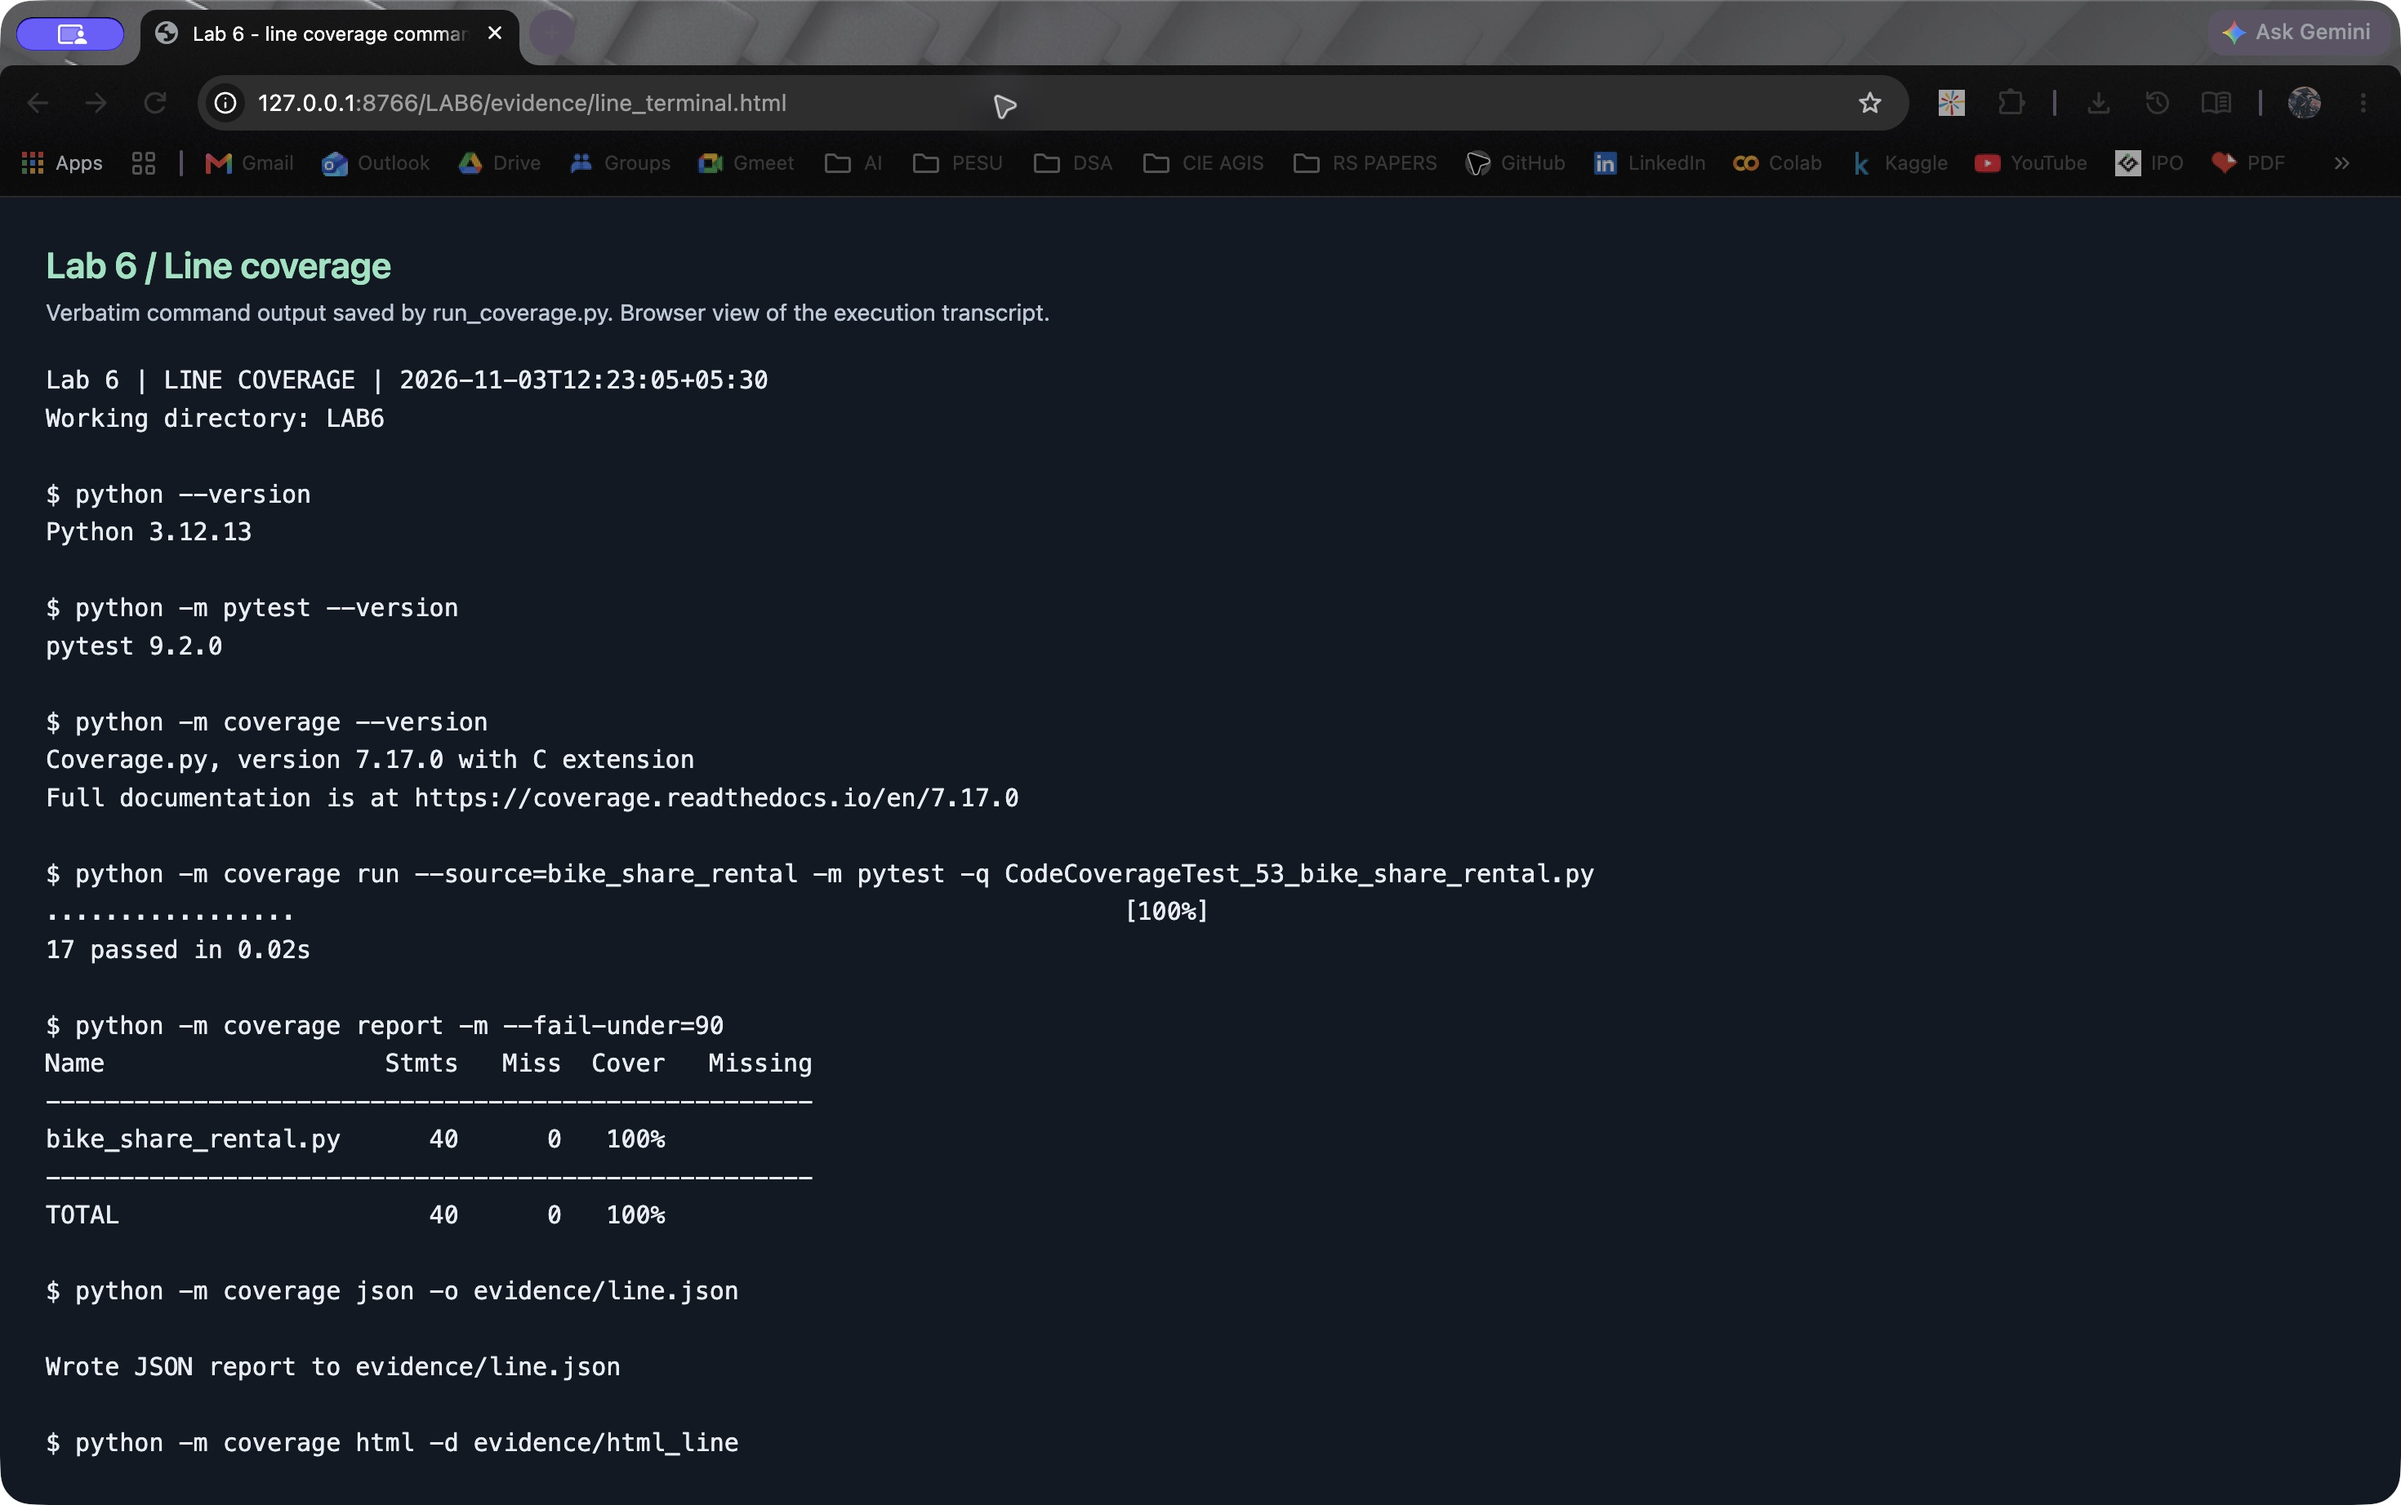
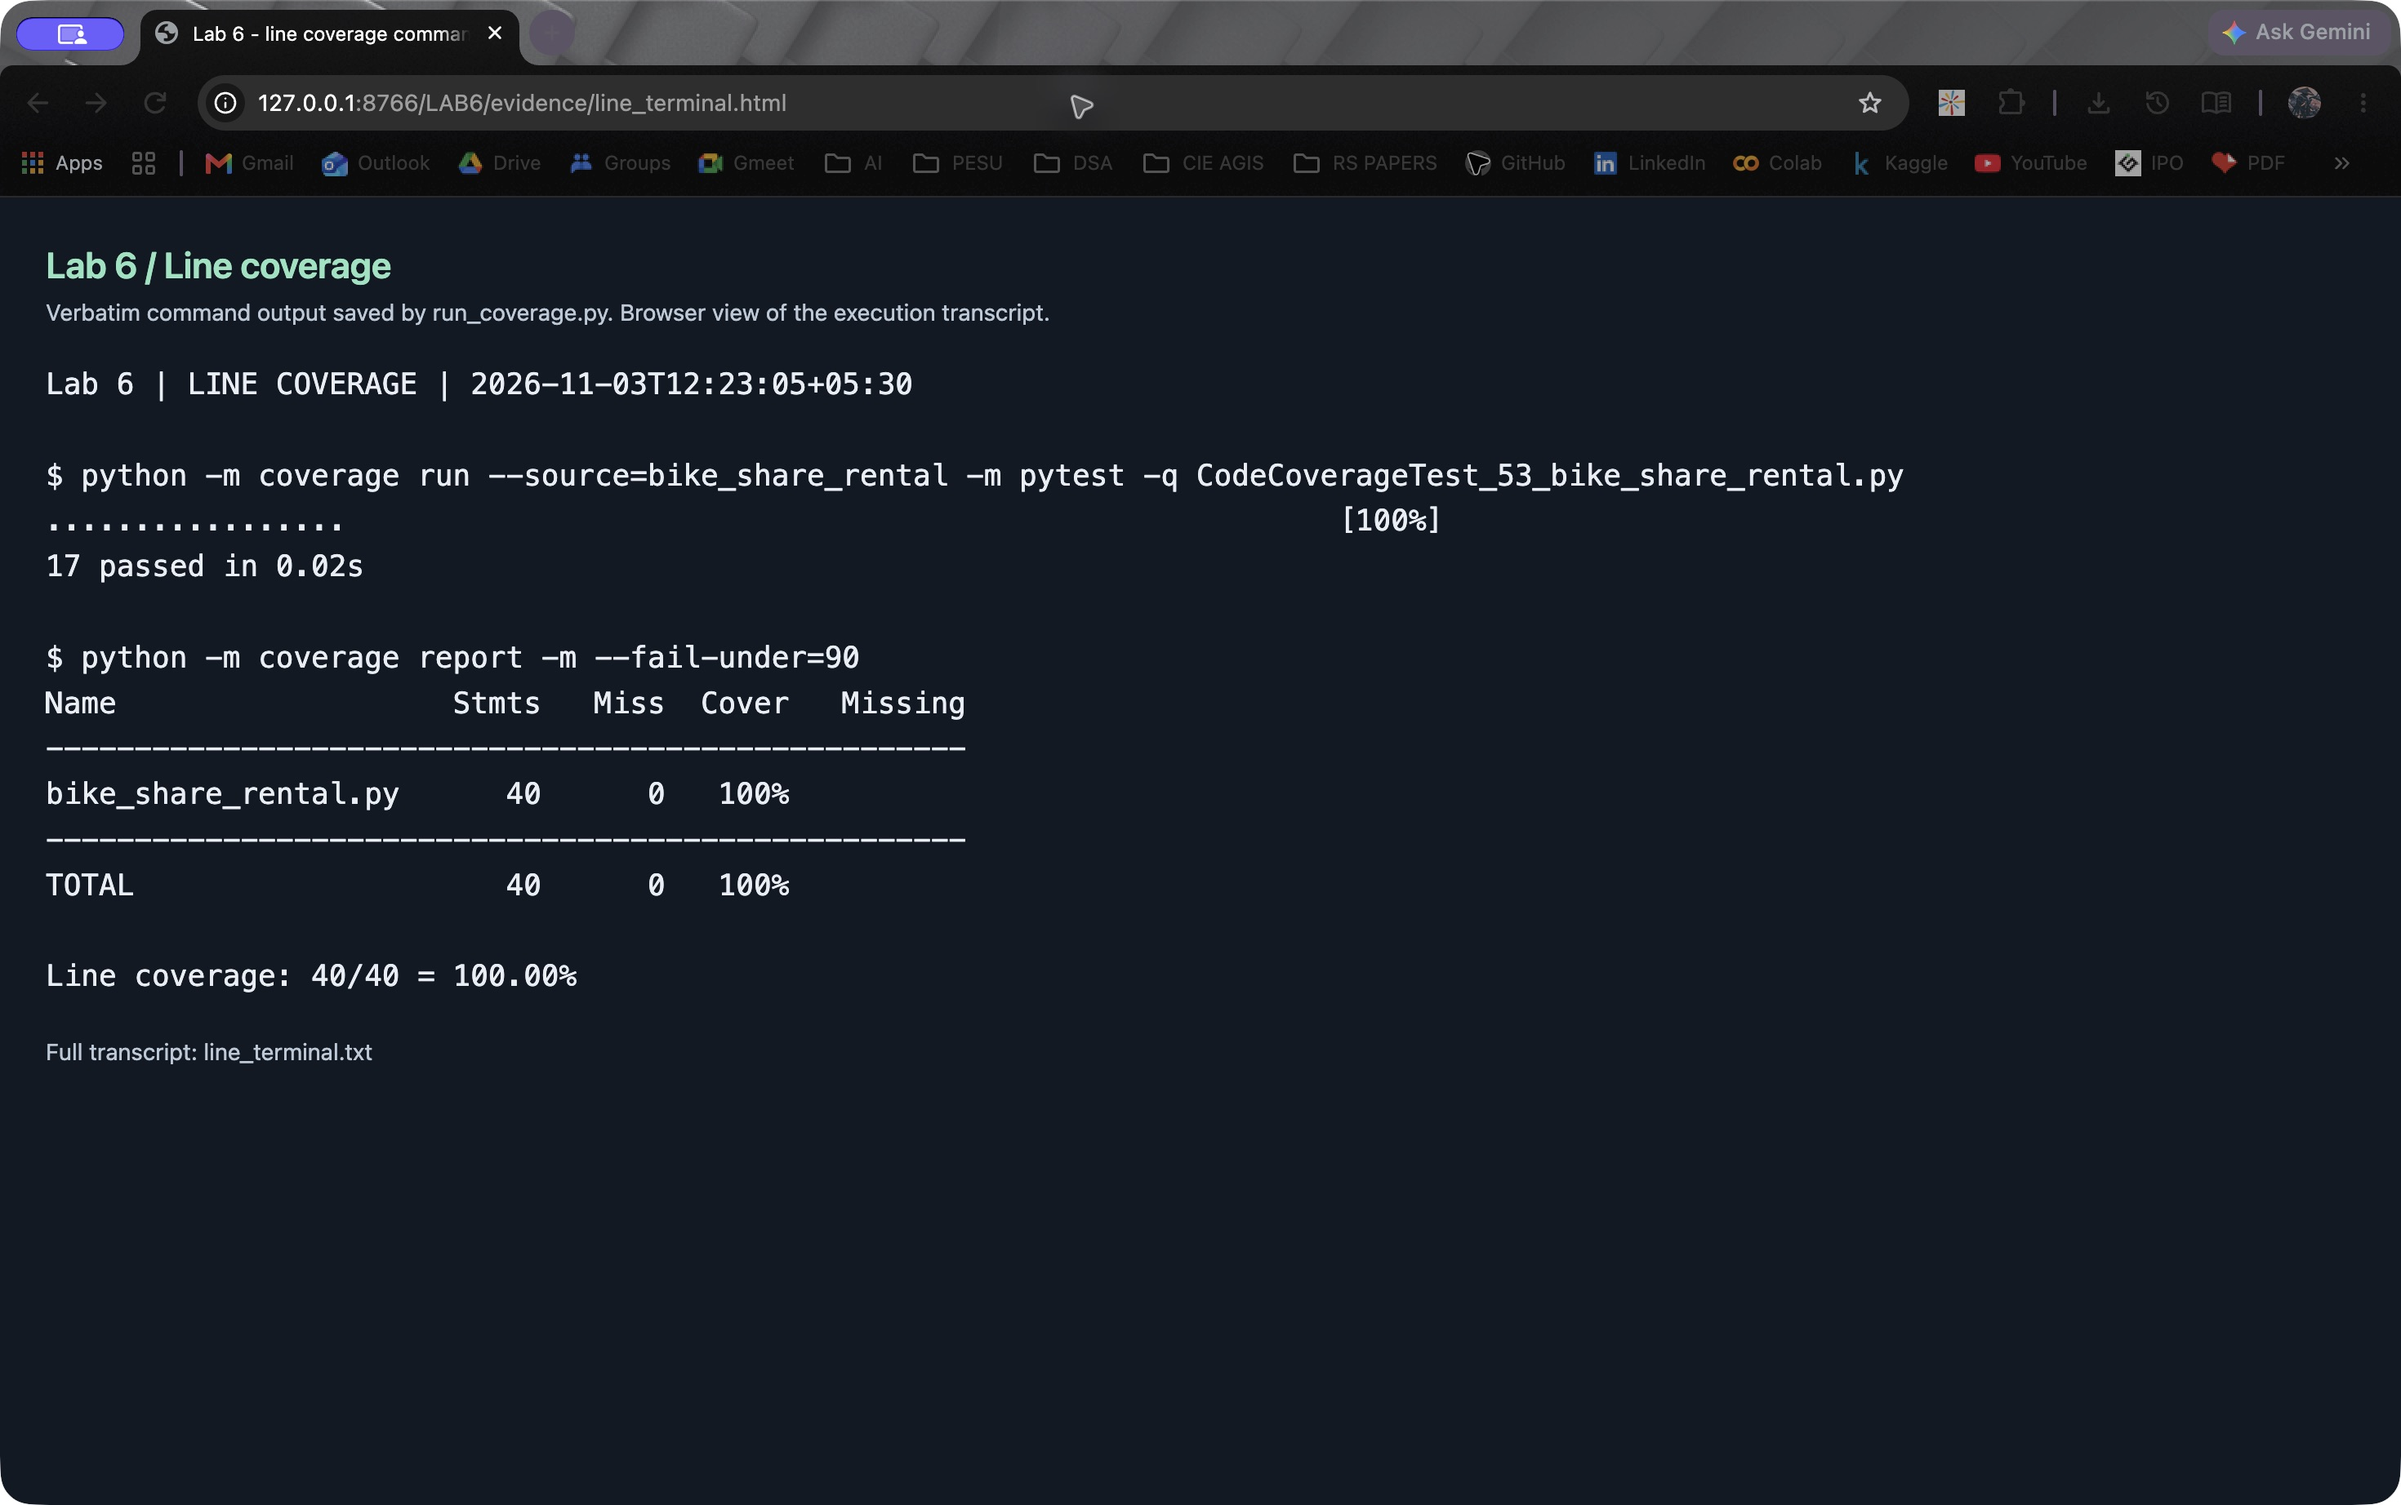
Complete branch coverage with 57 passing cases and 100 percent coverage

diff --git a/LAB6/evidence/line_terminal.html b/LAB6/evidence/line_terminal.html
@@ -1,15 +1,4 @@
-<!doctype html><meta charset="utf-8"><title>Lab 6 - line coverage command output</title><style>body{margin:0;background:#101923;color:#e8eef5;padding:28px;}h1{font:600 22px system-ui;margin:0 0 8px;color:#8fe4c0;}p{font:14px system-ui;color:#bac9d8;margin:0 0 22px;}pre{font:15px/1.55 Menlo,monospace;white-space:pre-wrap;overflow-wrap:anywhere;margin:0}</style><h1>Lab 6 / Line coverage</h1><p>Verbatim command output saved by run_coverage.py. Browser view of the execution transcript.</p><pre>Lab 6 | LINE COVERAGE | 2026-11-03T12:23:05+05:30
-Working directory: LAB6
-
-$ python --version
-Python 3.12.13
-
-$ python -m pytest --version
-pytest 9.2.0
-
-$ python -m coverage --version
-Coverage.py, version 7.17.0 with C extension
-Full documentation is at https://coverage.readthedocs.io/en/7.17.0
+<!doctype html><meta charset="utf-8"><title>Lab 6 - line coverage command output</title><style>body{margin:0;background:#101923;color:#e8eef5;padding:28px;}h1{font:600 22px system-ui;margin:0 0 8px;color:#8fe4c0;}p{font:14px system-ui;color:#bac9d8;margin:0 0 22px;}pre{font:18px/1.55 Menlo,monospace;white-space:pre-wrap;overflow-wrap:anywhere;margin:0}</style><h1>Lab 6 / Line coverage</h1><p>Verbatim command output saved by run_coverage.py. Browser view of the execution transcript.</p><pre>Lab 6 | LINE COVERAGE | 2026-11-03T12:23:05+05:30
 
 $ python -m coverage run --source=bike_share_rental -m pytest -q CodeCoverageTest_53_bike_share_rental.py
 .................                                                        [100%]
@@ -22,13 +11,5 @@ bike_share_rental.py      40      0   100%
 ----------------------------------------------------
 TOTAL                     40      0   100%
 
-$ python -m coverage json -o evidence/line.json
-
-Wrote JSON report to evidence/line.json
-
-$ python -m coverage html -d evidence/html_line
-
-Wrote HTML report to evidence/html_line/index.html
-
 Line coverage: 40/40 = 100.00%
-</pre>
+</pre><p style="margin-top:24px">Full transcript: line_terminal.txt</p>

diff --git a/LAB6/evidence/branch_terminal.html b/LAB6/evidence/branch_terminal.html
@@ -1,0 +1,16 @@
+<!doctype html><meta charset="utf-8"><title>Lab 6 - branch coverage command output</title><style>body{margin:0;background:#101923;color:#e8eef5;padding:28px;}h1{font:600 22px system-ui;margin:0 0 8px;color:#8fe4c0;}p{font:14px system-ui;color:#bac9d8;margin:0 0 22px;}pre{font:18px/1.55 Menlo,monospace;white-space:pre-wrap;overflow-wrap:anywhere;margin:0}</style><h1>Lab 6 / Branch coverage</h1><p>Verbatim command output saved by run_coverage.py. Browser view of the execution transcript.</p><pre>Lab 6 | BRANCH COVERAGE | 2026-11-03T12:25:30+05:30
+
+$ python -m coverage run --source=bike_share_rental --branch -m pytest -q BranchCoverageTest_53_bike_share_rental.py
+.........................................................                [100%]
+57 passed in 0.05s
+
+$ python -m coverage report -m --fail-under=90
+Name                   Stmts   Miss Branch BrPart  Cover   Missing
+------------------------------------------------------------------
+bike_share_rental.py      40      0     30      0   100%
+------------------------------------------------------------------
+TOTAL                     40      0     30      0   100%
+
+Line coverage: 40/40 = 100.00%
+Branch coverage: 30/30 = 100.00%
+</pre><p style="margin-top:24px">Full transcript: branch_terminal.txt</p>

diff --git a/LAB6/BranchCoverageTest_53_bike_share_rental.py b/LAB6/BranchCoverageTest_53_bike_share_rental.py
@@ -1,0 +1,88 @@
+"""Stage 2: retain stage 1 and add decision and boundary assertions."""
+
+import pytest
+
+from bike_share_rental import can_unlock, dock_status, ride_cost
+from CodeCoverageTest_53_bike_share_rental import (  # noqa: F401
+    test_dock_errors,
+    test_dock_status_statements,
+    test_ride_cost_errors,
+    test_ride_cost_statements,
+    test_unlock_statements,
+)
+
+
+@pytest.mark.parametrize(
+    "bike, minutes, subscriber, peak, expected",
+    [
+        ("standard", 1, False, False, 20),
+        ("standard", 29, False, False, 20),
+        ("standard", 30, False, False, 20),
+        ("standard", 31, False, False, 40),
+        ("standard", 60, False, False, 40),
+        ("standard", 61, False, False, 60),
+        ("electric", 30, False, False, 35),
+        ("cargo", 30, False, False, 50),
+        ("standard", 1, True, True, 0),
+        ("electric", 30, True, True, 0),
+        ("standard", 31, True, False, 20),
+        ("cargo", 60, True, True, 50),
+        ("standard", 30, False, True, 35),
+        ("cargo", 30, False, True, 50),
+        ("standard", 180, False, False, 120),
+        ("standard", 181, False, False, 240),
+        ("electric", 181, True, True, 325),
+    ],
+)
+def test_ride_boundaries(bike, minutes, subscriber, peak, expected):
+    assert ride_cost(bike, minutes, subscriber, peak) == expected
+
+
+@pytest.mark.parametrize("minutes", [-1, -30])
+def test_negative_duration(minutes):
+    with pytest.raises(ValueError, match="^invalid duration$"):
+        ride_cost("standard", minutes, False, False)
+
+
+@pytest.mark.parametrize("bikes, capacity", [(0, -1), (11, 10)])
+def test_remaining_dock_error_paths(bikes, capacity):
+    message = "invalid capacity" if capacity <= 0 else "invalid bike count"
+    with pytest.raises(ValueError, match=f"^{message}$"):
+        dock_status(bikes, capacity)
+
+
+@pytest.mark.parametrize(
+    "bikes, capacity, expected",
+    [
+        (1, 10, "few bikes"),
+        (3, 10, "available"),
+        (7, 10, "available"),
+        (9, 10, "few slots"),
+        (0, 1, "empty"),
+        (1, 1, "full"),
+        (1, 3, "few bikes"),
+        (3, 4, "few slots"),
+    ],
+)
+def test_dock_boundaries_and_precedence(bikes, capacity, expected):
+    assert dock_status(bikes, capacity) == expected
+
+
+@pytest.mark.parametrize(
+    "balance, active, age, expected",
+    [
+        (1000, True, 15, False),
+        (1000, True, 18, False),
+        (1000, False, 15, False),
+        (99, False, 16, False),
+        (100, False, 16, True),
+        (99, False, 17, False),
+        (100, False, 17, True),
+        (49, False, 18, False),
+        (50, False, 18, True),
+        (-1, False, 30, False),
+        (51, False, 30, True),
+    ],
+)
+def test_unlock_boundaries(balance, active, age, expected):
+    assert can_unlock(balance, active, age) is expected

diff --git a/LAB6/run_coverage.py b/LAB6/run_coverage.py
@@ -17,9 +17,8 @@ def run_stage(stage):
     evidence = lab / "evidence"
     evidence.mkdir(exist_ok=True)
     branch = stage == "branch"
-    tests = ["CodeCoverageTest_53_bike_share_rental.py"]
-    if branch:
-        tests.append("BranchCoverageTest_53_bike_share_rental.py")
+    tests = ["BranchCoverageTest_53_bike_share_rental.py" if branch
+             else "CodeCoverageTest_53_bike_share_rental.py"]
     env = dict(os.environ, COVERAGE_FILE=str(evidence / f".coverage.{stage}"))
     commands = [
         ["--version"],
@@ -56,20 +55,29 @@ def run_stage(stage):
             f"{100 * totals['covered_branches'] / totals['num_branches']:.2f}%")
     text = "\n".join(transcript) + "\n"
     (evidence / f"{stage}_terminal.txt").write_text(text)
-    # Verbatim captured stdout, displayed locally for an actual browser screenshot.
+    write_transcript_view(evidence, stage, text)
+    print(text)
+
+
+def write_transcript_view(evidence, stage, text):
+    # Show the result commands verbatim; the full transcript is kept beside it.
+    start = text.index("$ python -m coverage run")
+    end = text.index("$ python -m coverage json")
+    summary = text[text.index("Line coverage:"):]
+    display = text.splitlines()[0] + "\n\n" + text[start:end] + summary
     (evidence / f"{stage}_terminal.html").write_text(
         '<!doctype html><meta charset="utf-8">'
         f'<title>Lab 6 - {stage} coverage command output</title>'
         '<style>body{margin:0;background:#101923;color:#e8eef5;padding:28px;}'
         'h1{font:600 22px system-ui;margin:0 0 8px;color:#8fe4c0;}'
         'p{font:14px system-ui;color:#bac9d8;margin:0 0 22px;}'
-        'pre{font:15px/1.55 Menlo,monospace;white-space:pre-wrap;'
+        'pre{font:18px/1.55 Menlo,monospace;white-space:pre-wrap;'
         'overflow-wrap:anywhere;margin:0}</style>'
         f'<h1>Lab 6 / {stage.title()} coverage</h1>'
         '<p>Verbatim command output saved by run_coverage.py. '
         'Browser view of the execution transcript.</p>'
-        f'<pre>{escape(text)}</pre>')
-    print(text)
+        f'<pre>{escape(display)}</pre>'
+        f'<p style="margin-top:24px">Full transcript: {stage}_terminal.txt</p>')
 
 
 if __name__ == "__main__":

diff --git a/LAB6/test_bike_share_rental.py b/LAB6/test_bike_share_rental.py
@@ -1,9 +1,14 @@
 """Default pytest entry point for the maintained Lab 6 test suite."""
 
-from CodeCoverageTest_53_bike_share_rental import (  # noqa: F401
+from BranchCoverageTest_53_bike_share_rental import (  # noqa: F401
+    test_dock_boundaries_and_precedence,
     test_dock_errors,
     test_dock_status_statements,
+    test_negative_duration,
+    test_remaining_dock_error_paths,
+    test_ride_boundaries,
     test_ride_cost_errors,
     test_ride_cost_statements,
+    test_unlock_boundaries,
     test_unlock_statements,
 )

diff --git a/LAB6/README.md b/LAB6/README.md
@@ -12,9 +12,13 @@ A small Python module that prices bike-share rides by bike type, duration and su
 |------|-------------|
 | `bike_share_rental.py` | The module under test |
 | `CodeCoverageTest_53_bike_share_rental.py` | 17 statement coverage cases |
+| `BranchCoverageTest_53_bike_share_rental.py` | Retains 17 cases and adds 40 decision/boundary cases |
 | `test_bike_share_rental.py` | Default pytest collection entry point |
 | `run_coverage.py` | Reproducible runs, saved output, JSON and HTML reports |
 | `evidence/line_coverage.png` | Screenshot of the final line coverage output |
+| `evidence/branch_coverage.png` | Screenshot of the final branch coverage output |
+| `evidence/coverage_html_summary.png` | Generated HTML report screenshot |
+| `evidence/coverage_functions.png` | Generated per-function report screenshot |
 
 ## Run the line coverage stage
 
@@ -22,12 +26,37 @@ From the repository root, create and activate a Python 3 virtual environment,
 then install `LAB6/requirements.txt`. Run:
 
 ```bash
+python3 -m venv .venv
+source .venv/bin/activate
+python -m pip install -r LAB6/requirements.txt
 python LAB6/run_coverage.py line
+python LAB6/run_coverage.py branch
+python -m pytest -q
 ```
 
 The stage measures only `bike_share_rental.py`, not the tests. It passes 17
 cases and covers all 40 executable statements (100%). Saved baseline logs in
 `evidence/baseline/` record the original two tests and their 50% line coverage.
+
+The final branch stage passes 57 cases: 40/40 statements and 30/30 branch
+outcomes, both 100%, with no partial branches. The original branch run covered
+11/30 branch outcomes (36.67%); its terminal `Cover` column is the combined
+statement/branch score, 44%, rather than the standalone branch percentage.
+
+The branch test module imports the line tests so that either named deliverable
+can be run independently. The default `test_bike_share_rental.py` imports the
+complete suite, allowing ordinary pytest discovery without duplicate cases.
+Explicitly collect one entry point per run. All expectations are asserted;
+the application source is unchanged and nothing is excluded from coverage.
+
+The PNG evidence captures a local browser view of saved, verbatim command
+output and the actual generated coverage HTML. Full transcripts and JSON data
+are retained alongside the images. The `COVERAGE_FILE` variable is set by the
+runner to preserve independent line/branch data; use the runner to reproduce.
+
+Coverage measures execution, not proof of correctness or exhaustive path/
+condition coverage. Extra cases cover short-circuit inputs and returned
+boolean thresholds that line-based branch measurement alone may not count.
 
 Keep all your Lab 6 work in this `LAB6` folder. Lab 7 will be added to this repo later.
 
